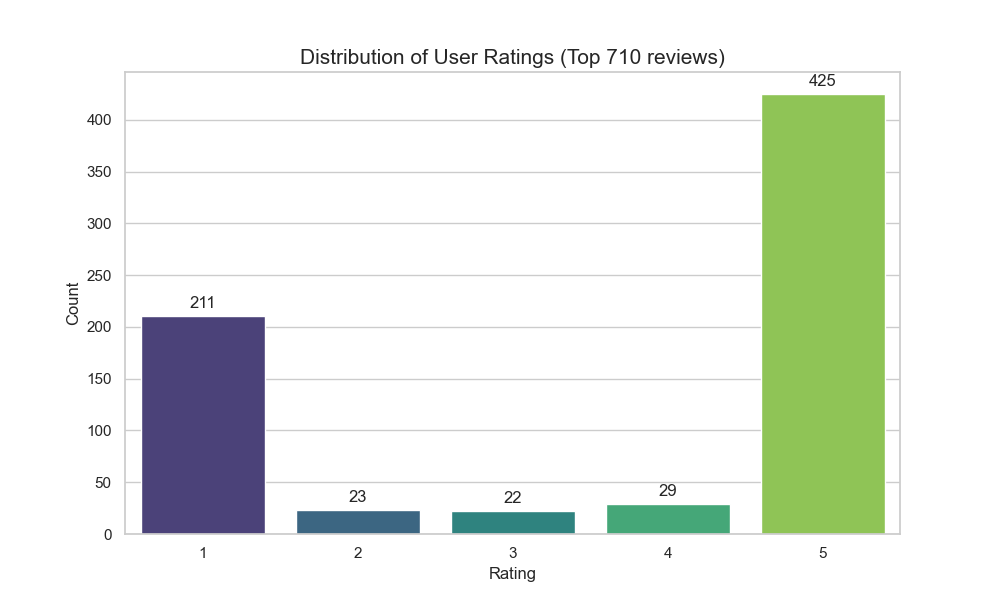
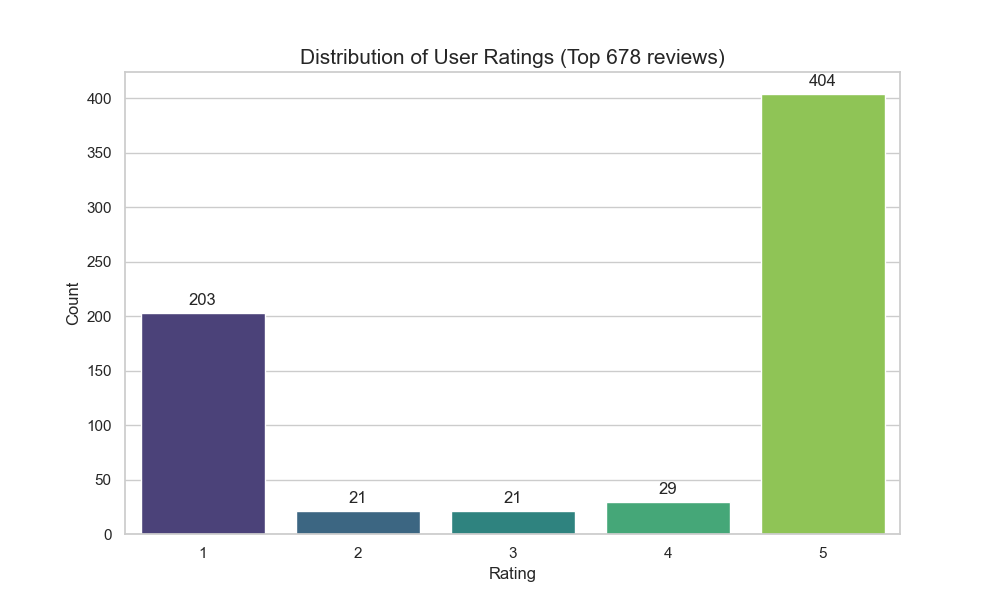
bert mitkly havin embedded step of vectorization for no use, removed.names of file output fixed

diff --git a/banking_research/models/Albania/bert_sentiment_analysis.py b/banking_research/models/Albania/bert_sentiment_analysis.py
@@ -1,10 +1,7 @@
 import re
 import pandas as pd
-import numpy as np
 from pathlib import Path
 from transformers import pipeline
-from sentence_transformers import SentenceTransformer
-from sklearn.metrics.pairwise import cosine_similarity
 
 # =========================
 # PATHS
@@ -66,24 +63,6 @@ def get_sentiment(text):
         return "Neutral", 0.0, 0.0, 1.0, 0.0
 
 # =========================
-# BERT EMBEDDING MODEL
-# =========================
-
-embedding_model = SentenceTransformer(
-    "sentence-transformers/paraphrase-multilingual-MiniLM-L12-v2"
-)
-
-def create_embeddings(texts):
-    embeddings = embedding_model.encode(
-        texts,
-        batch_size=32,
-        show_progress_bar=True,
-        convert_to_numpy=True,
-        normalize_embeddings=True
-    )
-    return embeddings
-
-# =========================
 # MAIN PROCESS
 # =========================
 
@@ -114,41 +93,19 @@ def process_file(file_path):
         ]
     ] = pd.DataFrame(sentiment_results.tolist(), index=df.index)
 
-    # -------------------------
-    # BERT EMBEDDINGS
-    # -------------------------
-
-    docs = df["clean_text"].tolist()
-
-    embeddings = create_embeddings(docs)
-
-    # We no longer save embedding dimensions as columns in the CSV to keep it simple for research.
-    # The embeddings are still saved separately in the .npy file.
-
     final_df = df.copy()
 
     # -------------------------
     # SAVE OUTPUT
     # -------------------------
 
-    output_csv = output_dir / file_path.name.replace(
-        "_clean.csv",
-        "_bert_only.csv"
-    )
+    # Extract the bank name from the filename (e.g., from 'albania_bkt_smart_clean.csv' extract 'bkt_smart')
+    bank_name = file_path.name.replace("albania_", "").replace("_clean.csv", "")
+    output_csv = output_dir / f"bert_{bank_name}.csv"
 
     final_df.to_csv(output_csv, index=False, encoding="utf-8-sig")
 
     print(f"Saved CSV: {output_csv}")
-
-    # Optional: save embeddings separately
-    output_npy = output_dir / file_path.name.replace(
-        "_clean.csv",
-        "_embeddings.npy"
-    )
-
-    np.save(output_npy, embeddings)
-
-    print(f"Saved embeddings: {output_npy}")
 
 # =========================
 # RUN ALL ALBANIA FILES

diff --git a/banking_research/models/Albania/bert_topic_modeling.py b/banking_research/models/Albania/bert_topic_modeling.py
@@ -104,7 +104,10 @@ def process_file(file_path):
     )
 
     # Save output
-    output_csv = output_dir / file_path.name.replace("_clean.csv", "_bertopic.csv")
+    # Extract the bank name from the filename (e.g., from 'albania_bkt_smart_clean.csv' extract 'bkt_smart')
+    bank_name = file_path.name.replace("albania_", "").replace("_clean.csv", "")
+    output_csv = output_dir / f"bert_topic_{bank_name}.csv"
+
     df_model.to_csv(output_csv, index=False, encoding="utf-8-sig")
     print(f"Saved: {output_csv}")
 
